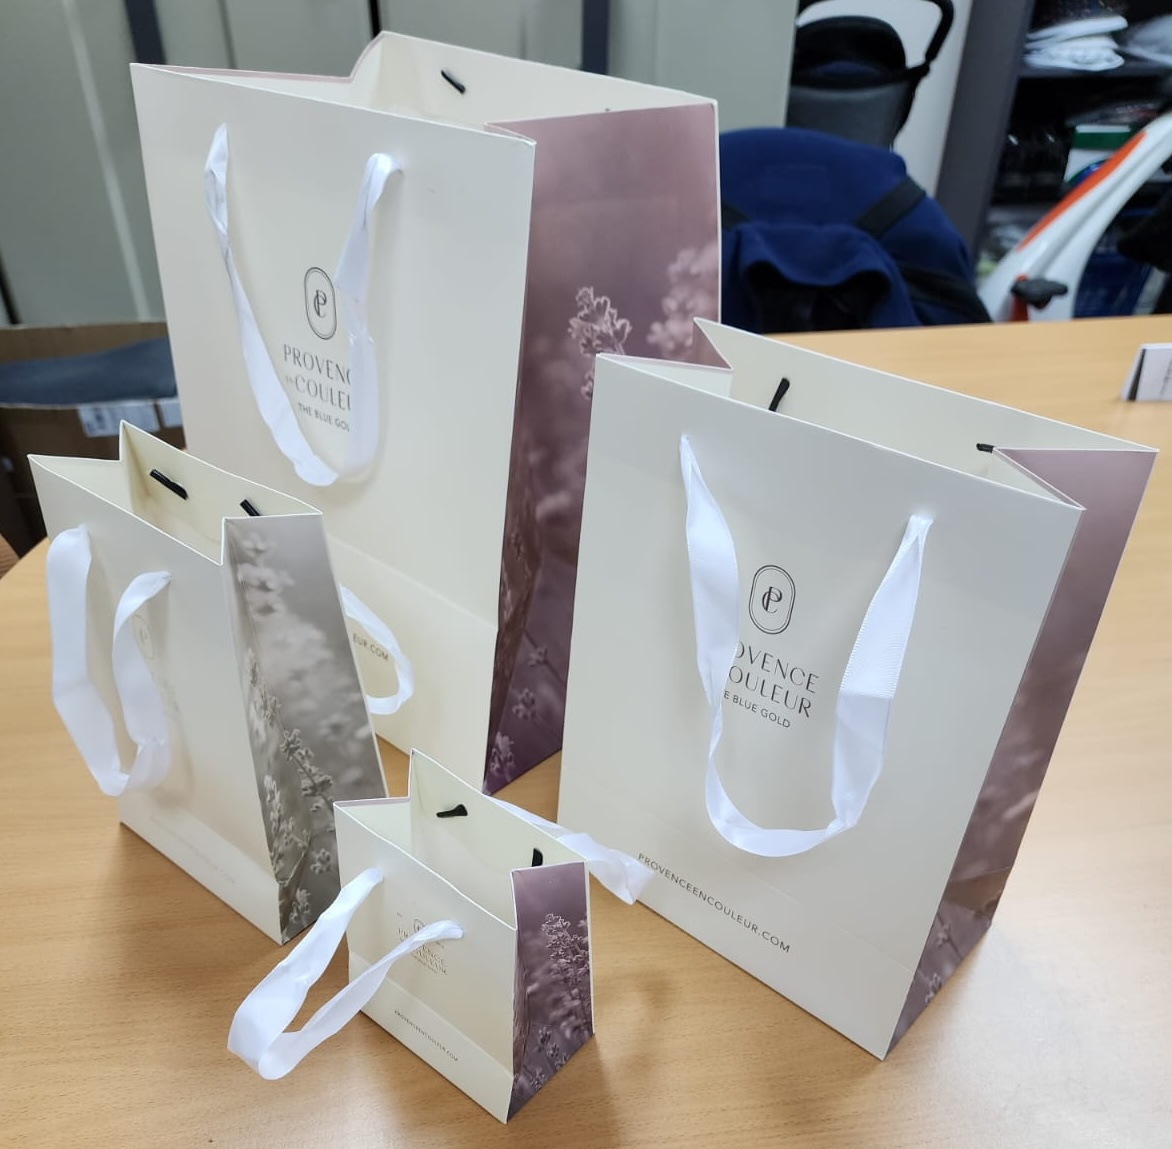
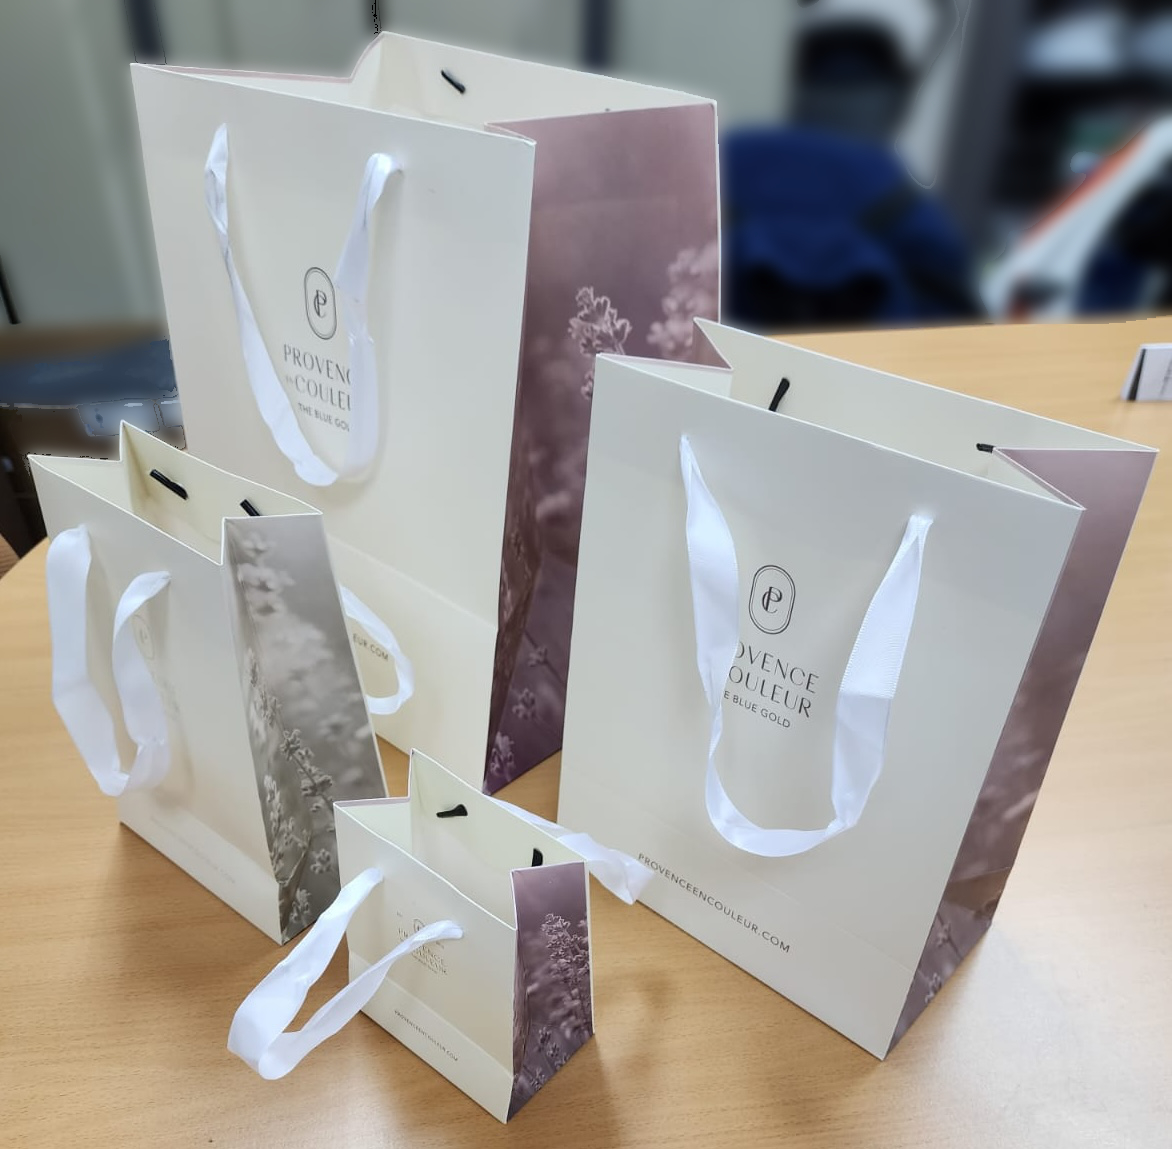
added python script and turned background of image blurry

diff --git a/script_jpg.py b/script_jpg.py
@@ -1,0 +1,29 @@
+import os
+import subprocess
+
+def convert_to_jpg(input_path, output_path, target_height):
+    # Create the output folder if it doesn't exist
+    os.makedirs(output_path, exist_ok=True)
+
+    # Recursively go through the input folder
+    for root, dirs, files in os.walk(input_path):
+        for file in files:
+            if file.lower().endswith(".jpg"):
+                # Construct the input and output file paths
+                input_file = os.path.join(root, file)
+                relative_path = os.path.relpath(input_file, input_path)
+                output_file = os.path.join(output_path, relative_path)
+
+                # Create the output folder for the current file if it doesn't exist
+                os.makedirs(os.path.dirname(output_file), exist_ok=True)
+
+                # Construct and execute the convert command
+                command = ["convert", input_file, "-resize", "x" + str(target_height), output_file]
+                subprocess.run(command)
+
+if __name__ == "__main__":
+    input_folder = "/Users/antoinedujardin/Developer/sinowell_website/src/assets"
+    output_folder = "/Users/antoinedujardin/Developer/sinowell_website/public/assets"
+    target_height = 1000
+
+    convert_to_jpg(input_folder, output_folder, target_height)
